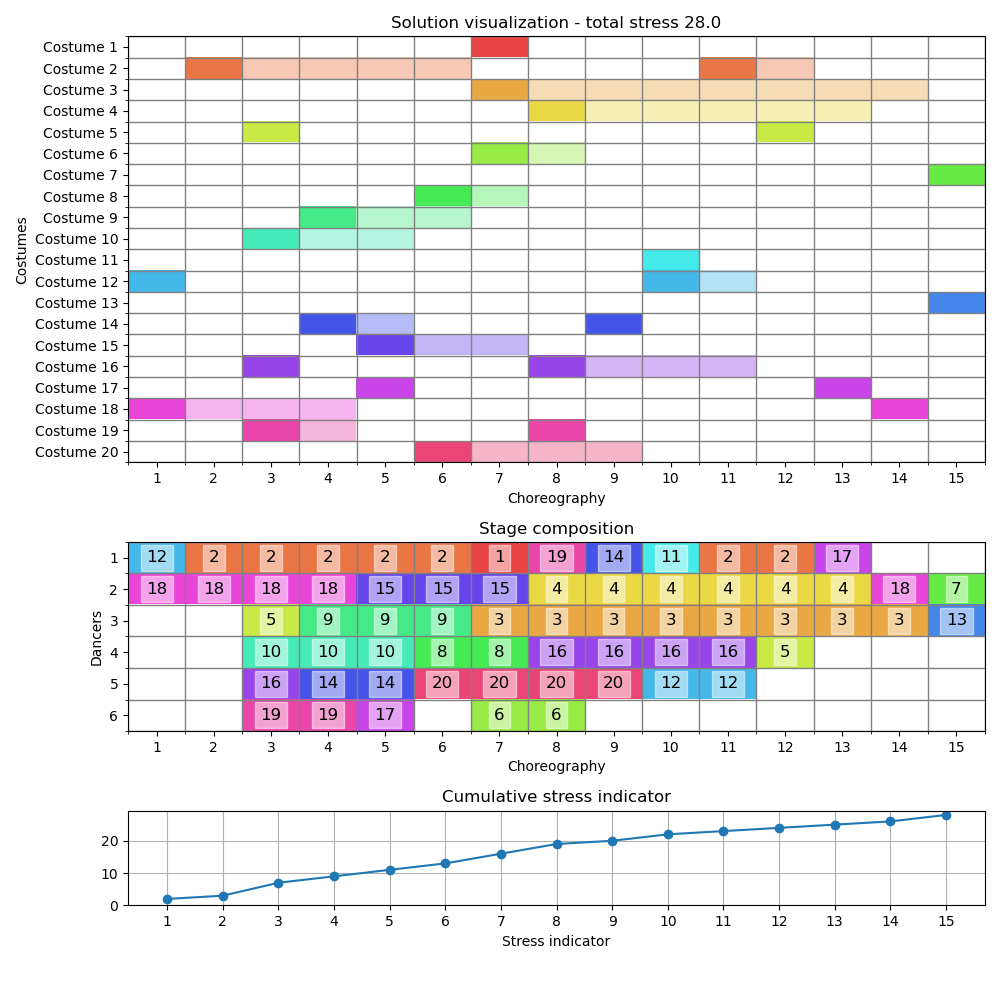
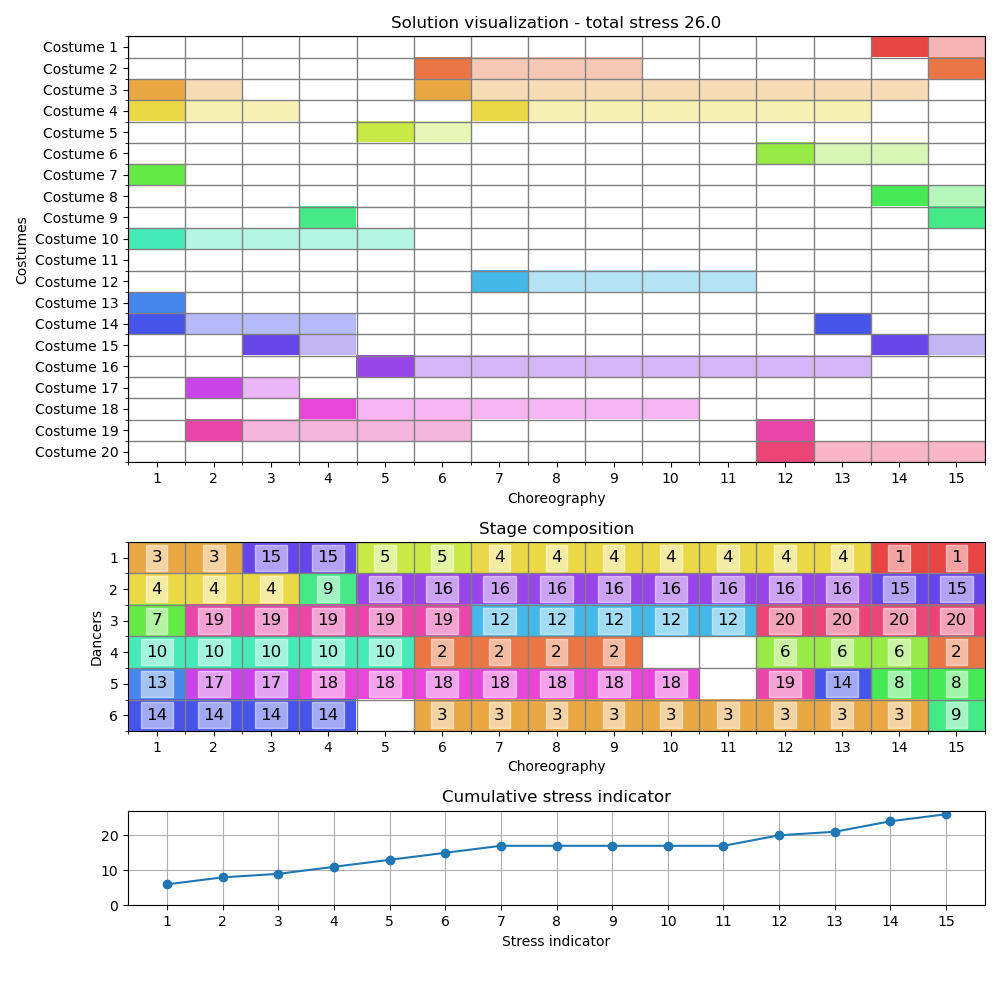
début ILS

diff --git a/solver_advanced.py b/solver_advanced.py
@@ -58,6 +58,32 @@ def backstage_neighborhood(sol: CustomSolution):
             yield repr, mat_cop
 
 
+def perturbation(instance: Instance, sol: Solution, t2: float) -> Solution:
+    """
+    Perturbe une solution en inversant un élément de la matrice de placement. Si on ne trouve pas de perturbation
+    valide pendant 5 secondes, on garde 
+    """
+    cc_mat = sol.raw.copy()
+    idx = np.unravel_index(np.random.choice(cc_mat.size), cc_mat.shape)
+    cc_mat[idx] *= -1
+    cc_mat[idx] += 1
+    valid = instance.is_valid(Solution(cc_mat))
+
+    while not valid and time() - t2 < 5:
+        cc_mat = sol.raw.copy()
+        idx = np.unravel_index(np.random.choice(cc_mat.size), cc_mat.shape)
+        cc_mat[idx] *= -1
+        cc_mat[idx] += 1
+        valid = instance.is_valid(Solution(cc_mat))
+
+    restart = deepcopy(sol)
+
+    if valid: # On retourne la solution sans modification si on n'a pas trouvé pendant 5 secondes
+        restart.raw = cc_mat
+
+    return restart
+
+
 def solve(instance: Instance) -> Solution:
     """
     Write here your solution for the homework
@@ -147,8 +173,11 @@ def solve(instance: Instance) -> Solution:
             best_sol = sol
             best_cost = cost
         
-        iteration_duration = time() - t1
+        t2 = time()
+        iteration_duration = t2 - t1
         print(time() - t0, best_cost)
+
+        sol = perturbation(instance, sol, t2)
     
 
     return best_sol
